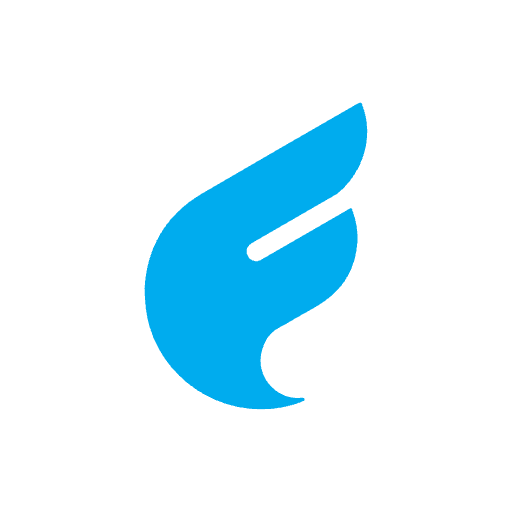
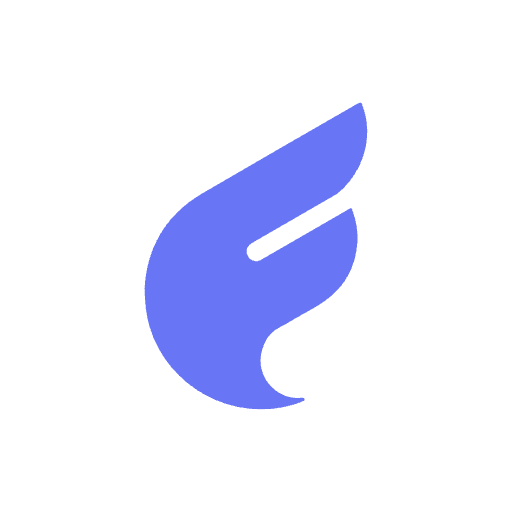
Implement new brand design (#26)

Changed region(s): [[0.2812, 0.1875, 0.7188, 0.8125]]

diff --git a/app/routes/auth/SignInRoute.tsx b/app/routes/auth/SignInRoute.tsx
@@ -35,23 +35,23 @@ export default function SignInRoute() {
   }
 
   return (
-    <div className="flex min-h-screen items-start justify-center bg-gray-100 p-3 pt-8 sm:items-center sm:pt-3">
-      <article className="flex w-full max-w-xl flex-col rounded-2xl bg-indigo-600 shadow-md sm:mt-0 sm:flex-row sm:shadow-xl">
+    <div className="flex min-h-screen items-start justify-center bg-gray-100 p-3 pt-8 dark:bg-gray-900 sm:items-center sm:pt-3">
+      <article className="flex w-full max-w-xl flex-col rounded-2xl bg-indigo-700 shadow-md sm:mt-0 sm:flex-row sm:shadow-xl">
         <aside className="flex flex-row items-center justify-center rounded-2xl py-4 sm:w-96 sm:flex-col sm:px-8">
           <img
             src={logoWhite}
             className="h-8 sm:h-20"
             alt="Flight Tracker app logo"
           />
-          <span className="text-xl font-bold text-gray-100 dark:text-gray-200 sm:mt-4">
+          <span className="text-xl font-bold text-white sm:mt-4">
             Flight Tracker
           </span>
         </aside>
         <form
           onSubmit={handleSubmit}
-          className="w-full space-y-2 rounded-2xl bg-white p-4 sm:p-8"
+          className="w-full space-y-2 rounded-2xl bg-white p-4 dark:bg-gray-800 sm:p-8"
         >
-          <h1 className="mb-6 text-center text-2xl font-bold text-gray-700">
+          <h1 className="mb-6 text-center text-2xl font-bold text-gray-700 dark:text-gray-300">
             Sign in
           </h1>
           <FloatingLabel
@@ -60,6 +60,7 @@ export default function SignInRoute() {
             id="email"
             type="email"
             required
+            className="dark:bg-gray-800"
             value={email}
             onChange={(e) => setEmail(e.target.value)}
           />
@@ -69,6 +70,7 @@ export default function SignInRoute() {
             id="password"
             type="password"
             required
+            className="dark:bg-gray-800"
             value={password}
             onChange={(e) => setPassword(e.target.value)}
           />
@@ -81,7 +83,7 @@ export default function SignInRoute() {
           <div className="flex items-center justify-end pt-2">
             <button
               type="submit"
-              className="ms-auto rounded-md bg-indigo-600 px-4 py-2 text-sm font-semibold text-white transition hover:bg-indigo-700 focus:outline-none focus:ring-2 focus:ring-indigo-500 focus:ring-offset-2"
+              className="ms-auto rounded-md bg-indigo-700 px-4 py-2 text-sm font-semibold text-white transition hover:bg-indigo-800 focus:outline-none focus:ring-2 focus:ring-indigo-500 focus:ring-offset-2"
             >
               {"Sign in"}
               <FaArrowRight className="ms-2 inline-block" />

diff --git a/app/layout/AppLayout.tsx b/app/layout/AppLayout.tsx
@@ -18,7 +18,7 @@ function getSidebarClasses(isMobileOpen: boolean, isCollapsed: boolean) {
     "h-screen",
     "flex-col",
     "border-gray-50",
-    "bg-gray-100",
+    "bg-indigo-500",
     "transition-transform",
     "duration-300",
     "md:translate-x-0",
@@ -42,14 +42,13 @@ function getSidebarClasses(isMobileOpen: boolean, isCollapsed: boolean) {
 function getContentClasses(isCollapsed: boolean) {
   const classes = [
     "flex-1",
-    "px-2",
-    "md:p-4",
+    "md:p-3",
+    "md:ps-0",
     "transition-all",
     "duration-300",
     "text-gray-800",
     "dark:text-white",
-    "bg-white",
-    "dark:bg-gray-900",
+    "bg-indigo-500",
   ];
 
   if (isCollapsed) {
@@ -89,7 +88,10 @@ export default function AppLayout() {
             <MobileSidebarExpander handleMobileToggle={handleMobileToggle} />
           </div>
           <div className={getContentClasses(isCollapsed)}>
-            <Outlet />
+            <div className="relative size-full rounded-t-3xl bg-white px-3 py-2 text-gray-700 dark:bg-gray-900 dark:text-gray-300 md:rounded-3xl md:px-8 md:py-6">
+              <Outlet />
+              <Footer />
+            </div>
           </div>
         </div>
         <ToastContainer
@@ -105,7 +107,6 @@ export default function AppLayout() {
           theme="light"
           transition={Bounce}
         />
-        <Footer />
       </ProtectedRoute>
     </Flowbite>
   );

diff --git a/app/components/Box/FlightInfoHeader.tsx b/app/components/Box/FlightInfoHeader.tsx
@@ -6,8 +6,8 @@ type FlightInfoHeaderProps = {
 };
 export default function FlightInfoHeader({ flight }: FlightInfoHeaderProps) {
   return (
-    <header className="col-span-1 mb-3 md:col-span-3">
-      <div className="mb-3 mt-1 flex items-center gap-2 text-gray-600">
+    <header className="col-span-1 md:col-span-3">
+      <div className="mb-3 mt-1 flex items-center gap-3">
         <span className="text-3xl font-bold text-indigo-500 md:text-4xl">
           {flight.flightNumber}
         </span>
@@ -20,7 +20,7 @@ export default function FlightInfoHeader({ flight }: FlightInfoHeaderProps) {
           </span>
         </div>
       </div>
-      <div className="my-2 flex items-center gap-2 text-gray-600">
+      <div className="my-2 flex items-center gap-2">
         {flight.aircraft.shortName}
         <span>•</span>
         <span className="inline-block rounded-md border border-gray-600 px-2 py-0.5 text-xs">
@@ -31,7 +31,7 @@ export default function FlightInfoHeader({ flight }: FlightInfoHeaderProps) {
           {flight.aircraft.selcal}
         </span>
       </div>
-      <div className="my-2 text-gray-600">
+      <div className="my-2">
         {"Operated by "}
         <span className="font-bold">{flight.operator.shortName}</span>
       </div>

diff --git a/app/components/Sidebar/SidebarUserPanel.tsx b/app/components/Sidebar/SidebarUserPanel.tsx
@@ -35,10 +35,10 @@ export default function SidebarUserPanel({
   const { user } = useAuth() as { user: User };
 
   return (
-    <div className="my-1 flex w-full items-center rounded-lg bg-gray-100 p-2 text-gray-900 duration-100  dark:bg-gray-800 dark:text-gray-200">
-      <div className="flex items-center justify-center rounded-full bg-gray-300 dark:bg-gray-600">
+    <div className="my-1 flex w-full items-center rounded-lg bg-indigo-400 p-2 duration-100">
+      <div className="flex items-center justify-center rounded-full bg-indigo-300">
         <span
-          className={`rounded-full text-gray-500 dark:text-gray-300 ${isCollapsed ? "p-1 text-xs" : "p-2 text-base"}`}
+          className={`rounded-full text-white ${isCollapsed ? "p-1 text-xs" : "p-2 text-base"}`}
         >
           {getInitials(user.name)}
         </span>
@@ -47,7 +47,7 @@ export default function SidebarUserPanel({
         <>
           <div className="mx-3">
             <span>{user.name}</span>
-            <span className="block text-xs font-bold uppercase text-gray-500">
+            <span className="block text-xs font-bold uppercase">
               {roleToDescription(user.role)}
             </span>
           </div>

diff --git a/app/components/Sidebar/SidebarThemeSwitch.tsx b/app/components/Sidebar/SidebarThemeSwitch.tsx
@@ -50,9 +50,9 @@ export default function SidebarThemeSwitch({
   return (
     <button
       onClick={() => handleThemeSwitch(nextMode(currentMode))}
-      className="my-1 flex w-full items-center rounded-lg bg-gray-100 p-2 text-gray-900 transition-colors duration-100 hover:bg-gray-200 active:bg-gray-300 dark:bg-gray-800 dark:hover:bg-gray-700 dark:active:bg-gray-600"
+      className="my-1 flex w-full items-center rounded-lg bg-indigo-500 p-2 transition-colors duration-100"
     >
-      <Icon size="24px" className="text-gray-500" />
+      <Icon size="24px" />
       {!isCollapsed && (
         <span className="mx-3 text-xs uppercase md:text-sm">
           {["auto", "light", "dark"].map((mode, index) => {
@@ -60,7 +60,7 @@ export default function SidebarThemeSwitch({
             return (
               <span
                 key={index}
-                className={`ps-2 dark:text-gray-100 md:ps-3 ${isCurrent && " font-bold"}`}
+                className={`ps-2 md:ps-3 ${isCurrent && " font-bold"}`}
               >
                 {mode}
               </span>

diff --git a/app/components/Sidebar/SidebarCurrentFlight.tsx b/app/components/Sidebar/SidebarCurrentFlight.tsx
@@ -62,7 +62,7 @@ export default function SidebarCurrentFlight({
         to={`/track/${flight.id}`}
         replace
         viewTransition
-        className="block w-full rounded-lg bg-gray-200 p-2 text-start dark:bg-gray-700"
+        className="block w-full rounded-lg bg-indigo-400 p-2 text-start"
       >
         <span className="text-xs">
           <span className="block text-center font-bold">
@@ -82,7 +82,7 @@ export default function SidebarCurrentFlight({
       to={`/track/${flight.id}`}
       replace
       viewTransition
-      className="block w-full rounded-lg bg-gray-200 p-2 text-start dark:bg-gray-700"
+      className="block w-full rounded-lg bg-indigo-400 p-2 text-start"
     >
       <span className="block text-xs">
         <span className="font-bold">{flight.flightNumber}</span>

diff --git a/app/components/Sidebar/SidebarExpander.tsx b/app/components/Sidebar/SidebarExpander.tsx
@@ -15,11 +15,11 @@ export default function SidebarExpander({
   return (
     <button
       onClick={handleDesktopCollapse}
-      className="my-1 hidden items-center rounded-lg bg-gray-100 p-2 transition-colors duration-100 hover:bg-gray-200 active:bg-gray-300 dark:bg-gray-800 dark:hover:bg-gray-700 dark:active:bg-gray-600 md:flex"
+      className="my-1 hidden items-center rounded-lg bg-indigo-500 p-2 transition-colors duration-100 hover:bg-indigo-400 md:flex"
     >
       <HiChevronDoubleLeft
         size="24px"
-        className={`text-gray-500 transition-transform duration-300 ${isCollapsed ? "rotate-180" : ""}`}
+        className={`transition-transform duration-300 ${isCollapsed ? "rotate-180" : ""}`}
       />
     </button>
   );

diff --git a/app/components/Sidebar/SidebarLogo.tsx b/app/components/Sidebar/SidebarLogo.tsx
@@ -2,7 +2,7 @@
 
 import { Link } from "react-router";
 import React from "react";
-import logo from "~/assets/logo.svg";
+import logo from "~/assets/logo.white.svg";
 
 type SidebarLogoProps = {
   isCollapsed: boolean;
@@ -13,9 +13,7 @@ export default function SidebarLogo({ isCollapsed }: SidebarLogoProps) {
     <Link to="/" replace={true} className="mb-3 mt-1 flex items-center">
       <img src={logo} className="ms-1 h-8" alt="Flight Tracker app logo" />
       {!isCollapsed && (
-        <span className="ms-3 text-xl font-bold text-gray-700 dark:text-gray-200">
-          Flight Tracker
-        </span>
+        <span className="ms-3 text-xl font-bold">Flight Tracker</span>
       )}
     </Link>
   );

diff --git a/app/components/Sidebar/SidebarElement.tsx b/app/components/Sidebar/SidebarElement.tsx
@@ -19,8 +19,8 @@ export default function SidebarElement({
 }: SidebarElementProps) {
   return (
     <Link to={href} replace={true} viewTransition>
-      <span className="my-1 flex w-full items-center rounded-lg bg-gray-100 p-2 text-gray-900 transition-colors duration-100 hover:bg-gray-200 dark:bg-gray-800 dark:text-gray-200 dark:hover:bg-gray-700">
-        <Icon size="24px" className="text-gray-500" />
+      <span className="my-1 flex w-full items-center rounded-lg bg-indigo-500 p-2 transition-colors duration-100 ease-in-out hover:bg-indigo-400">
+        <Icon size="24px" />
         {!isCollapsed && <span className="mx-3">{label}</span>}
       </span>
     </Link>

diff --git a/app/components/Sidebar/Sidebar.tsx b/app/components/Sidebar/Sidebar.tsx
@@ -29,7 +29,7 @@ export function Sidebar({
   }
 
   return (
-    <aside className="flex size-full flex-col bg-gray-100 p-3 text-gray-800 dark:bg-gray-800 dark:text-white">
+    <aside className="flex size-full flex-col bg-indigo-500 p-3 text-white">
       <SidebarLogo isCollapsed={isCollapsed} />
 
       <div>
@@ -91,7 +91,7 @@ export function Sidebar({
         )}
       </div>
 
-      <div className="mt-auto">
+      <div className="mt-auto flex flex-col gap-1">
         <SidebarUserPanel isCollapsed={isCollapsed} />
         <SidebarThemeSwitch isCollapsed={isCollapsed} />
         <SidebarExpander

diff --git a/app/components/Sidebar/SidebarSectionTitle.tsx b/app/components/Sidebar/SidebarSectionTitle.tsx
@@ -8,7 +8,7 @@ export default function SidebarSectionTitle({
   label,
 }: SidebarSectionTitleProps) {
   return (
-    <h3 className="mb-4 mt-6 ps-3 text-xs font-bold uppercase text-gray-900 dark:text-gray-300">
+    <h3 className="mb-4 mt-6 ps-3 text-xs font-bold uppercase text-white">
       {label}
     </h3>
   );

diff --git a/app/components/Sidebar/SidebarDivider.tsx b/app/components/Sidebar/SidebarDivider.tsx
@@ -3,7 +3,5 @@
 import React from "react";
 
 export default function SidebarDivider() {
-  return (
-    <span className="my-2 block w-full border-b dark:border-gray-700"></span>
-  );
+  return <span className="my-2 block w-full border-b border-indigo-300"></span>;
 }
